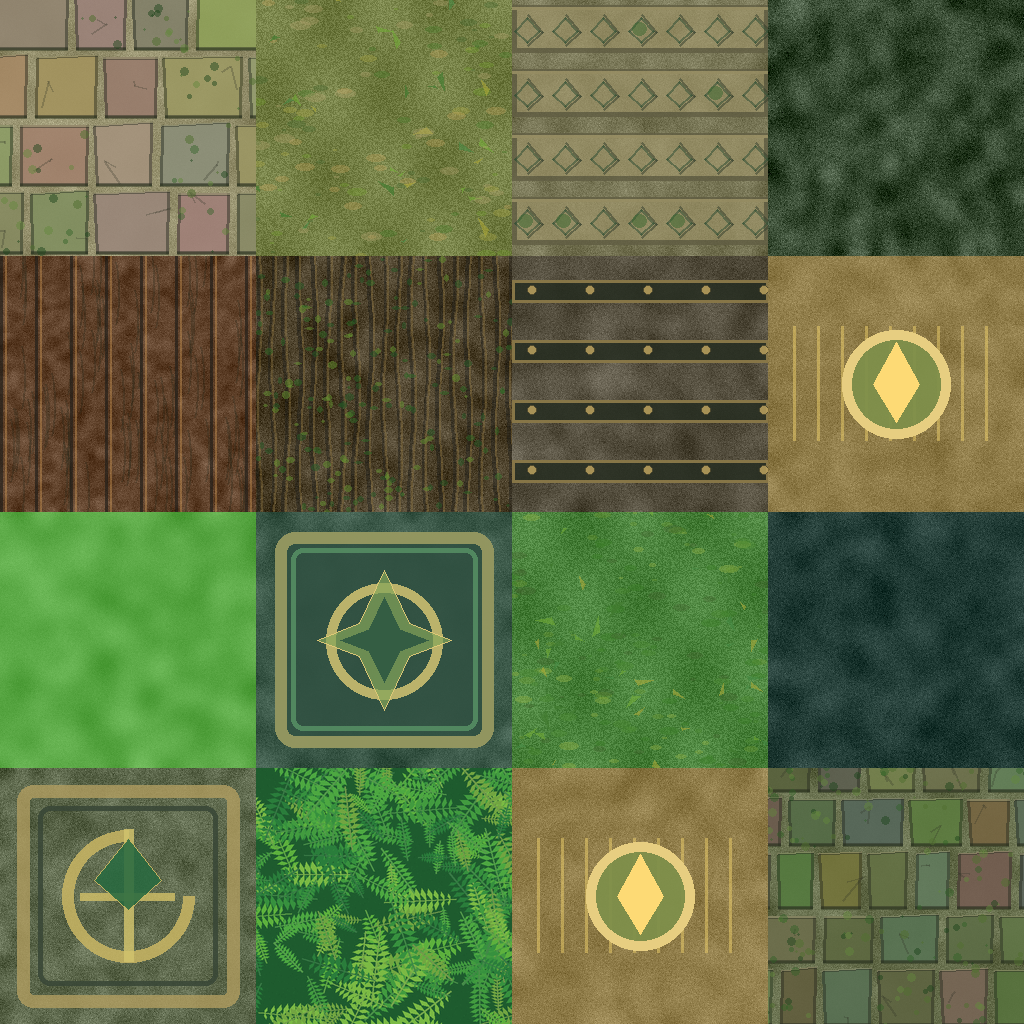
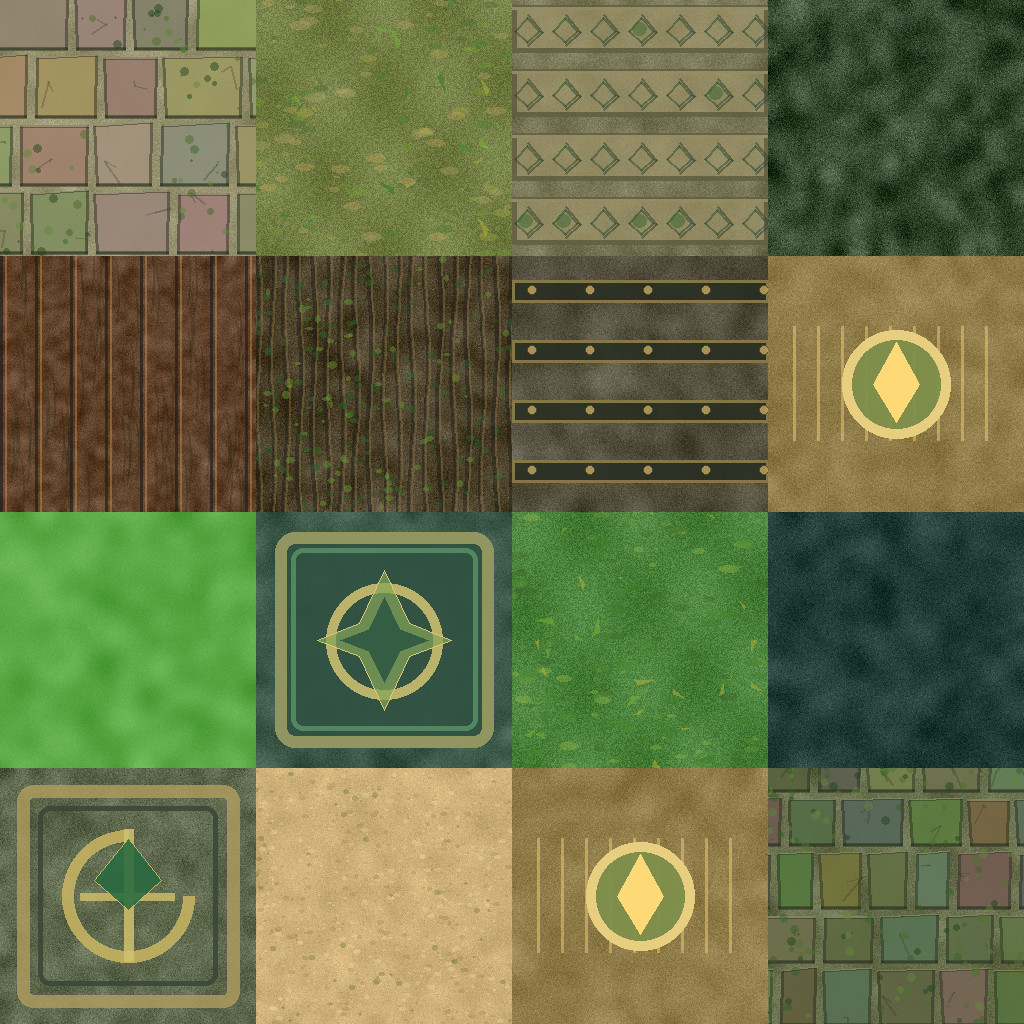
Add files via upload

Changed region(s): [[0.25, 0.75, 0.5, 1.0]]

diff --git a/maze-escape/assets/3d/maze3d.js b/maze-escape/assets/3d/maze3d.js
@@ -65,6 +65,11 @@ void main(){float m=floor(vMaterial+.5);
      rgb*=vec3(1.075,1.045,.95);
    }
  }
+ // The walkable trail is recognisably sunlit sand rather than green foliage.
+ // Material 1 is used for the continuous jungle walking surface.
+ if(uJungle>.5 && n.y>.8 && abs(m-1.)<.4){
+   rgb*=vec3(1.17,1.15,1.06);
+ }
  float fog=smoothstep(uFogStart,uFogEnd,vDistance);
  rgb=mix(rgb,uFog,fog*.90);
  gl_FragColor=vec4(pow(max(rgb,vec3(0.)),vec3(.94)),1.);
@@ -168,20 +173,20 @@ class Renderer{
     // Tile variation and edge shading create depth without giant square blocks.
     const v=.91+rand()*.16;
     const zone=theme==='jungle'?this.jungleZone(c,r,H):-1;
-    const material=theme==='jungle'?[10,1,1,10,1][zone]:1;
-    const tone=theme==='jungle'?[[.83,.94,.75],[1.03,1.04,.79],[1.04,1.05,.91],[.67,.81,.73],[1.19,1.12,.94]][zone]:[1,1,1];
+    const material=1;
+    const tone=theme==='jungle'?[[1.03,1.01,.97],[1.10,1.055,.95],[1.08,1.065,1.01],[.99,1.00,.96],[1.13,1.08,1.00]][zone]:[1,1,1];
     m.plane(c,r,c+1,r+1,.007,material,[v*tone[0],v*tone[1],v*tone[2]]);
     if(theme!=='jungle'&&t.roof)m.plane(c,r,c+1,r+1,wallH+.06,3,theme==='school'?[1.07,1.09,1.09]:[.89,.92,1]);
     if(theme==='school'&&(r+c)%5===1)this.schoolCeilingLight(m,c,r,wallH);
     if(nearWall(r,c)){
      const line=theme==='jungle'?[[.44,.71,.39],[.69,.80,.37],[.65,.83,.50],[.39,.70,.53],[.66,.85,.44]][zone]:[.64,.70,.79];
-     if(!open(r-1,c))m.plane(c,r,c+1,r+.07,.009,1,line);
-     if(!open(r+1,c))m.plane(c,r+.93,c+1,r+1,.009,1,line);
-     if(!open(r,c-1))m.plane(c,r,c+.07,r+1,.009,1,line);
-     if(!open(r,c+1))m.plane(c+.93,r,c+1,r+1,.009,1,line);
+     if(!open(r-1,c))m.plane(c,r,c+1,r+.12,.019,6,line);
+     if(!open(r+1,c))m.plane(c,r+.88,c+1,r+1,.019,6,line);
+     if(!open(r,c-1))m.plane(c,r,c+.12,r+1,.019,6,line);
+     if(!open(r,c+1))m.plane(c+.88,r,c+1,r+1,.019,6,line);
     }
     // Floor fragments / wind-blown leaves, kept clear of the player's walking line.
-    if(theme==='jungle'&&rand()<.18)this.jungleFloorDetail(m,c,r,rand);
+    if(theme==='jungle'&&rand()<.035)this.jungleFloorDetail(m,c,r,rand);
     // Rare temple lintels stay as visual accents; overhead leaves grow from trunks.
     // No unanchored leaves across the sky: canopy is rooted in wall-cell trees.
     // Recessed floor motifs and occasional inlaid tiles.
@@ -321,9 +326,9 @@ class Renderer{
      const n=H>=33?1:2;
      for(let k=0;k<n;k++){
        const a=k*6.283/n+rand()*.28,xx=x+Math.cos(a)*.22,zz=z+Math.sin(a)*.22;
-       const tall=k===0?2.40+rand()*.55:1.40+rand()*.55;
+       const tall=k===0?4.65+rand()*1.05:3.10+rand()*.65;
        this.jungleTrunk(m,xx,zz,tall*.65,rand);
-       this.jungleCrownVolume(m,xx,tall*.65,zz,.44*density,.55+rand()*.25,.43*density,rand,k);
+       this.jungleCrownVolume(m,xx,tall*.68,zz,.57*density,.78+rand()*.36,.55*density,rand,k);
        this.jungleStats.foliage++;
      }
      if(rand()<.35)this.jungleGroundPlant(m,c+.31,r+.30,rand);
@@ -331,7 +336,7 @@ class Renderer{
      const n=H>=33?5:H>=25?7:9;
      for(let k=0;k<n;k++){
        const a=k*2.39996+rand()*.20,rad=.08+Math.sqrt((k+.5)/n)*.38;
-       const xx=x+Math.cos(a)*rad,zz=z+Math.sin(a)*rad,hh=1.75+rand()*1.27;
+       const xx=x+Math.cos(a)*rad,zz=z+Math.sin(a)*rad,hh=2.85+rand()*1.35;
        m.box(xx-.024,0,zz-.024,xx+.024,hh,zz+.024,5,[.85,1.06,.55]);
        for(let q=1;q<=4;q++){
          const y=hh*q/5;
@@ -349,7 +354,7 @@ class Renderer{
      const n=1;
      for(let k=0;k<n;k++){
        const xx=x+(k===0?-.20:.23),zz=z+(k===0?-.12:.20);
-       this.jungleLargePalm(m,xx,zz,2.55+rand()*.60,rand);
+       this.jungleLargePalm(m,xx,zz,4.45+rand()*1.25,rand);
        this.jungleStats.plants.palm++;
      }
      this.jungleCrownVolume(m,x,.31,z,.46*density,.45,.39*density,rand,1);
@@ -389,8 +394,8 @@ class Renderer{
    const root=[x,h,z];
    for(let i=0;i<7;i++){
      const a=i*Math.PI*2/7+rand()*.19,dx=Math.cos(a),dz=Math.sin(a);
-     const mid=[x+dx*.33,h+.22+rand()*.08,z+dz*.33],tip=[x+dx*(.68+rand()*.19),h-.37+rand()*.14,z+dz*(.68+rand()*.19)];
-     this.jungleBroadLeaf(m,root,mid,tip,.13+rand()*.05,i);
+     const mid=[x+dx*.43,h+.27+rand()*.08,z+dz*.43],tip=[x+dx*(.94+rand()*.21),h-.48+rand()*.17,z+dz*(.94+rand()*.21)];
+     this.jungleBroadLeaf(m,root,mid,tip,.19+rand()*.07,i);
    }
  }
  jungleGiantFern(m,x,z,s,rand){
